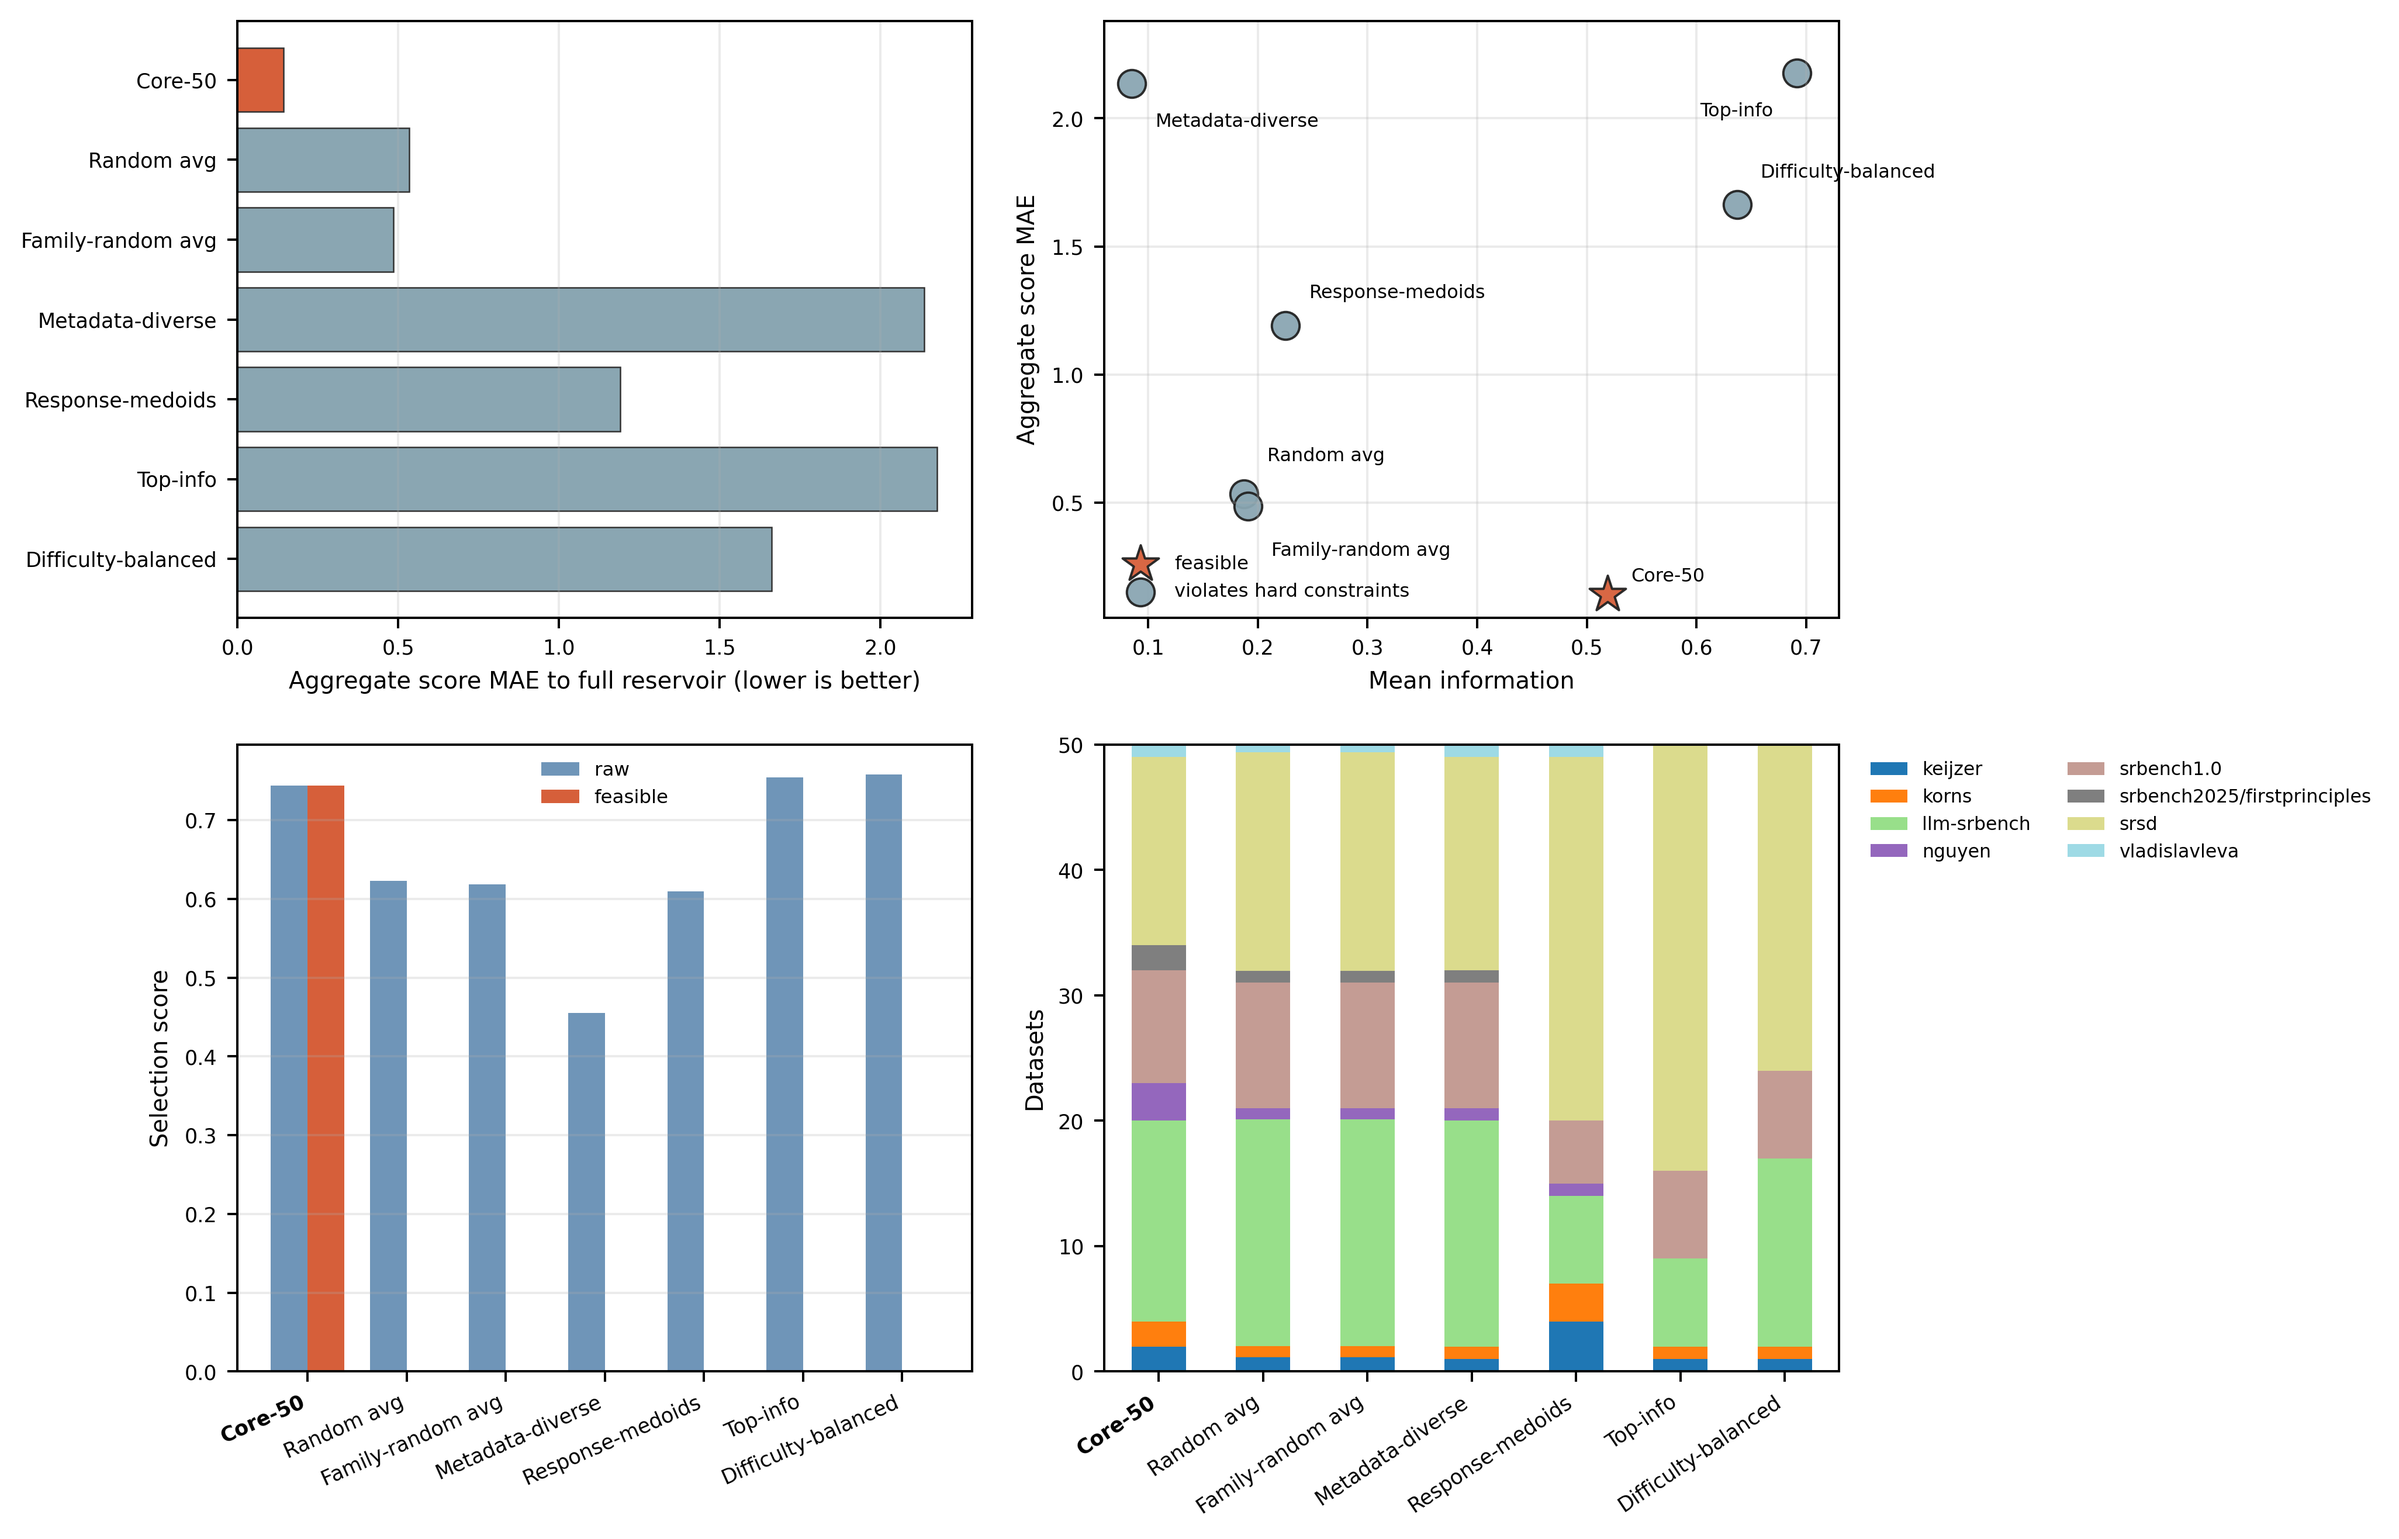
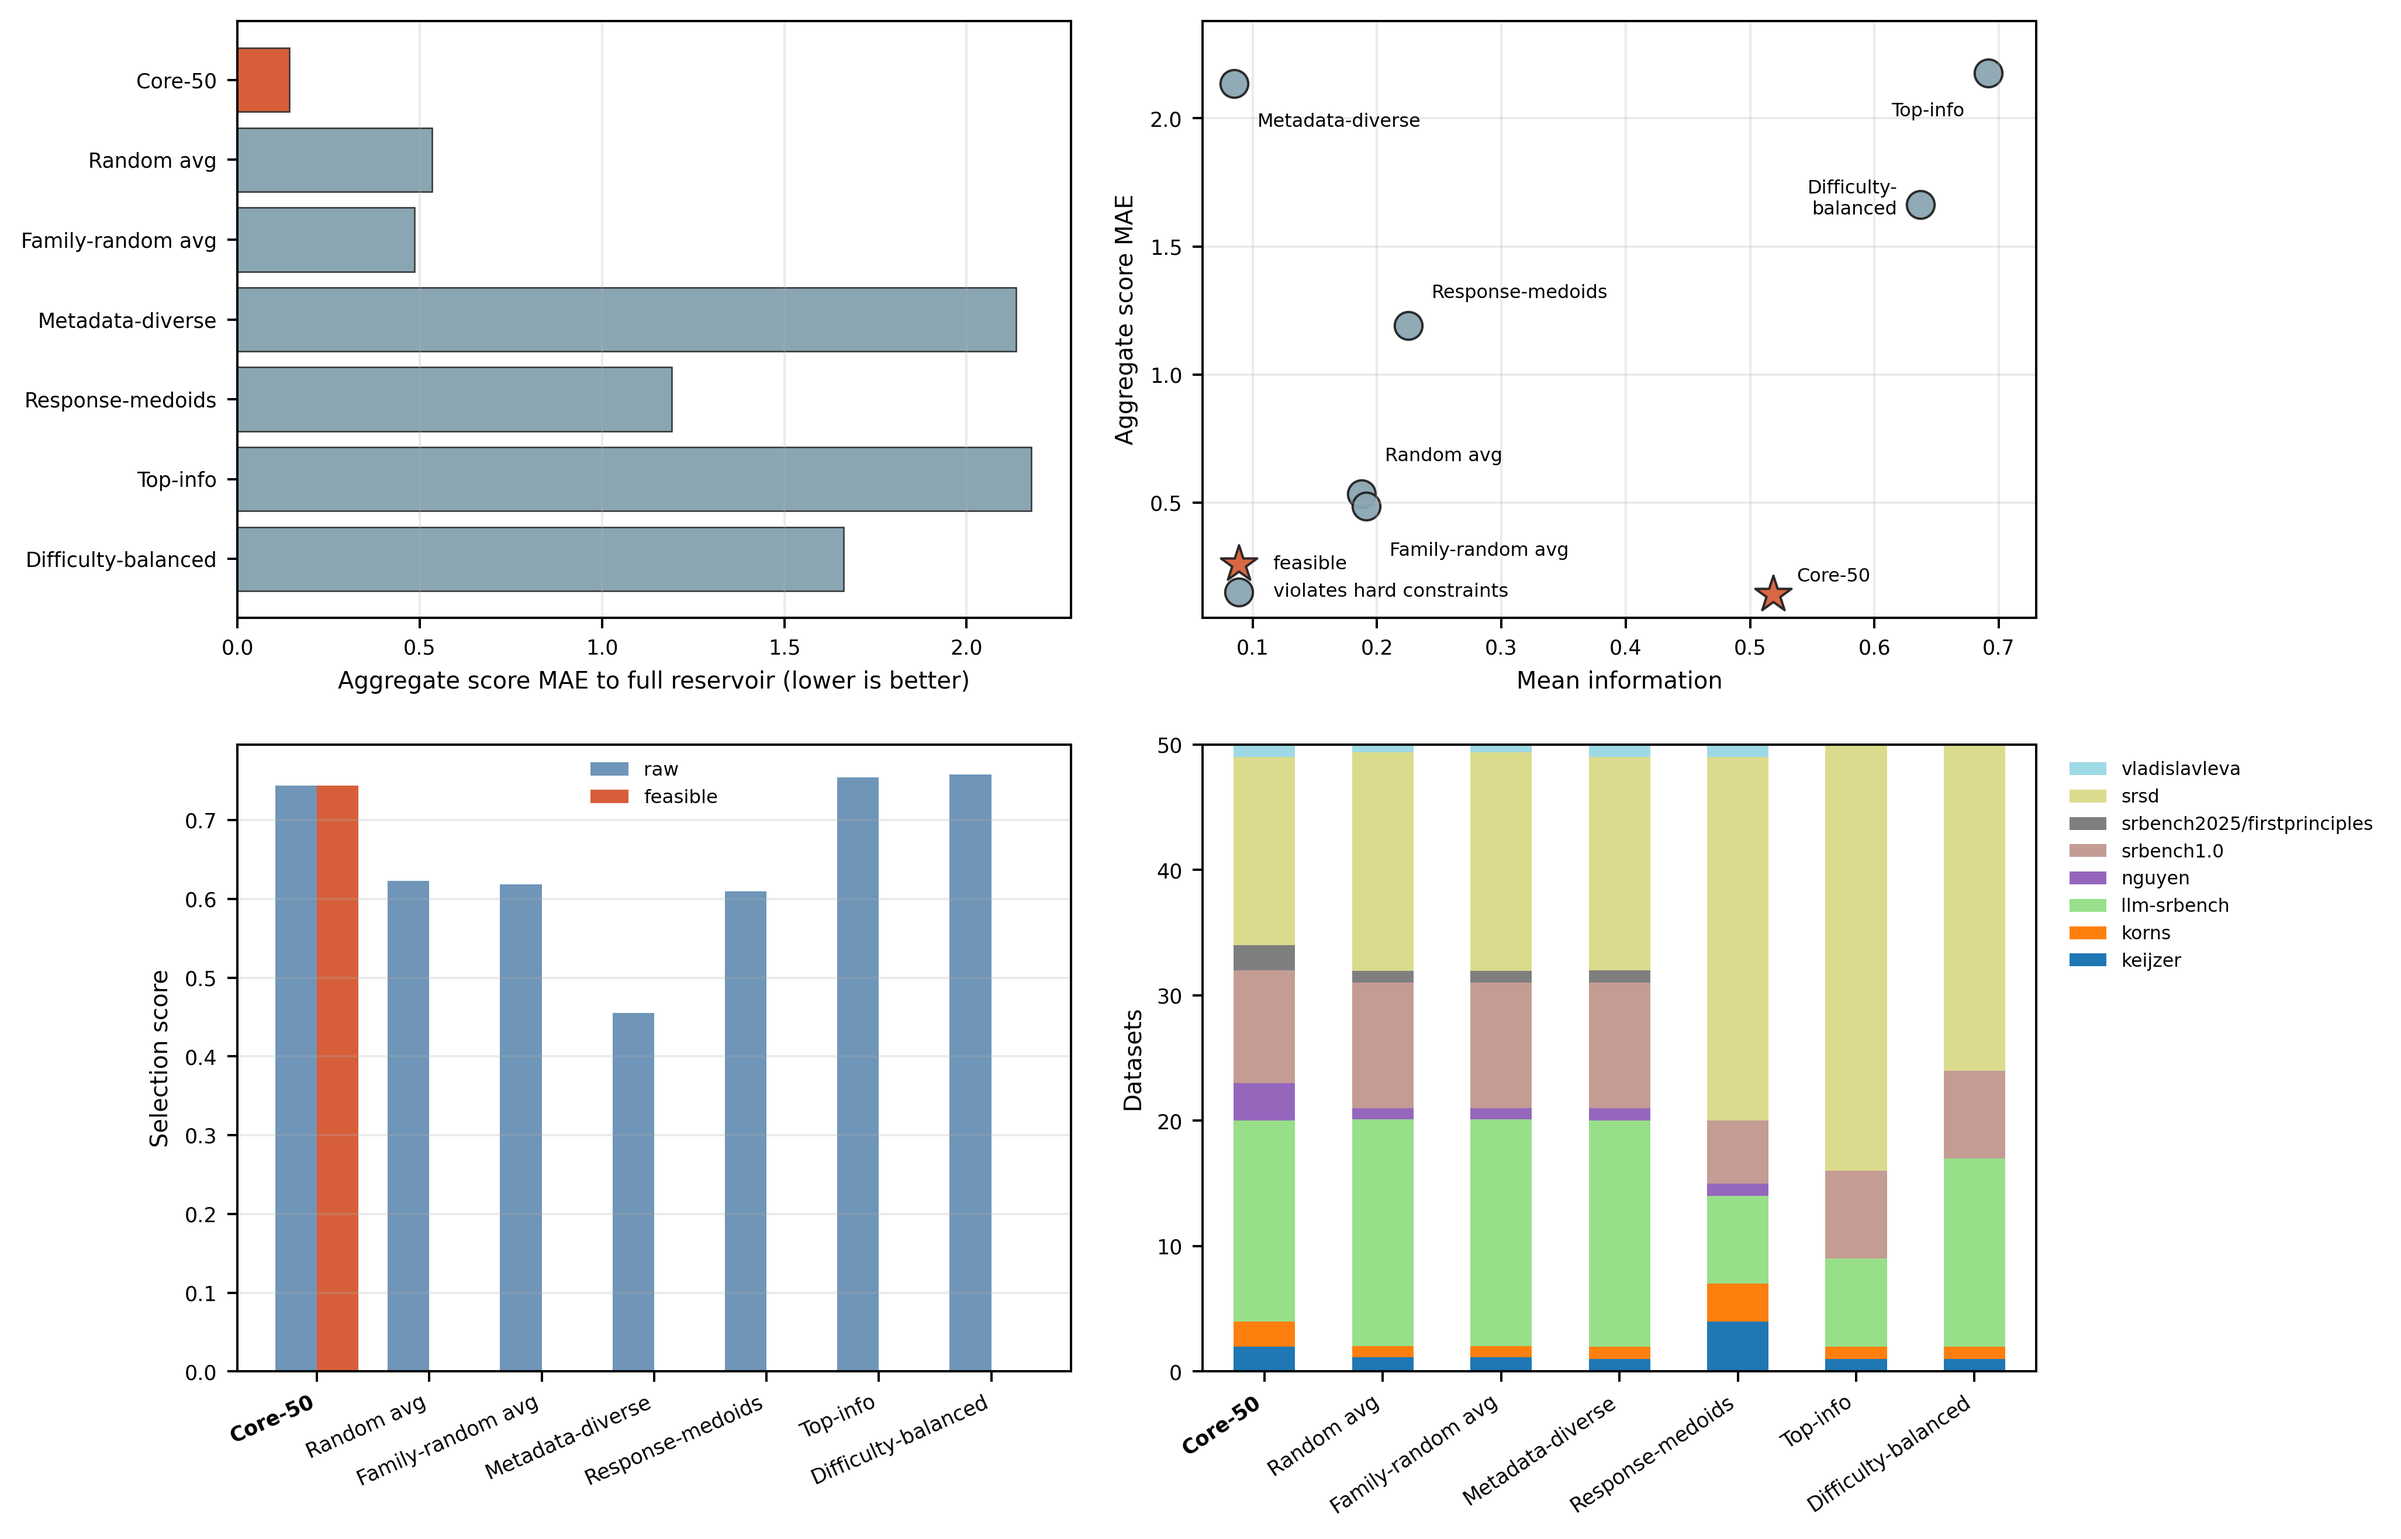
[beautify] 更新Core50消融图生成脚本

diff --git a/check/plot_core50_ablation_outputs.py b/check/plot_core50_ablation_outputs.py
@@ -293,7 +293,7 @@ def _plot_ablation(metrics: pd.DataFrame, family_dist: pd.DataFrame) -> list[str
         "metadata-diverse-50": (8, -10, "left", "top"),
         "response-kmedoids-50": (8, 8, "left", "bottom"),
         "top-info-50": (-8, -10, "right", "top"),
-        "difficulty-balanced-50": (8, 8, "left", "bottom"),
+        "difficulty-balanced-50": (-8, 2, "right", "center"),
     }
     for ok, marker, label in [(True, "*", "feasible"), (False, "o", "violates hard constraints")]:
         sub = plot_df[feasible == ok]
@@ -312,7 +312,7 @@ def _plot_ablation(metrics: pd.DataFrame, family_dist: pd.DataFrame) -> list[str
             key = str(row["subset"])
             dx, dy, ha, va = label_offsets.get(key, (5, 4, "left", "bottom"))
             ax.annotate(
-                _display_name(key),
+                "Difficulty-\nbalanced" if key == "difficulty-balanced-50" else _display_name(key),
                 (row["mean_info"], row["aggregate_error"]),
                 xytext=(dx, dy),
                 textcoords="offset points",
@@ -356,18 +356,30 @@ def _plot_ablation(metrics: pd.DataFrame, family_dist: pd.DataFrame) -> list[str
     bottom = np.zeros(len(subset_order))
     family_bar_width = 0.52
     family_colors = plt.cm.tab20(np.linspace(0, 1, len(family_order)))
+    family_handles: dict[str, Any] = {}
     for color, family in zip(family_colors, family_order):
         vals = []
         for subset in subset_order:
             match = family_dist[(family_dist["subset"] == subset) & (family_dist["family"] == family)]
             vals.append(float(match["count"].iloc[0]) if not match.empty else 0.0)
-        ax.bar(x_family, vals, width=family_bar_width, bottom=bottom, label=family, color=color, linewidth=0)
+        bars = ax.bar(x_family, vals, width=family_bar_width, bottom=bottom, label=family, color=color, linewidth=0)
+        family_handles[family] = bars[0]
         bottom += np.asarray(vals)
     ax.set_ylabel("Datasets")
     ax.set_xticks(x_family, family_labels, rotation=34, ha="right", fontsize=TICK_LABEL_FONTSIZE)
     _bold_core_ticklabels(ax.get_xticklabels())
     ax.margins(x=0.04)
-    ax.legend(frameon=False, fontsize=6.3, ncol=2, loc="upper left", bbox_to_anchor=(1.02, 1.0))
+    # The legend is ordered to match the visual top-to-bottom stack order.
+    legend_order = list(reversed(family_order))
+    ax.legend(
+        [family_handles[family] for family in legend_order],
+        legend_order,
+        frameon=False,
+        fontsize=6.3,
+        ncol=1,
+        loc="upper left",
+        bbox_to_anchor=(1.02, 1.0),
+    )
     _style_axis(ax)
 
     fig.tight_layout(pad=1.0, w_pad=1.6, h_pad=1.5)
